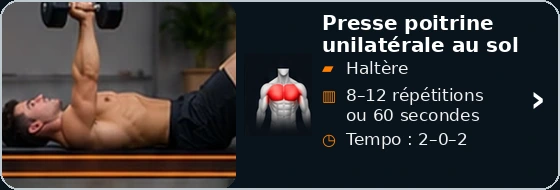
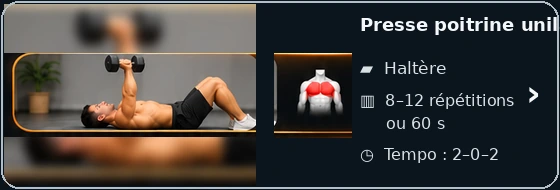
Add files via upload

diff --git a/sw.js b/sw.js
@@ -1,5 +1,5 @@
-const CACHE="ma-bibliotheque-v69";
-const ASSETS=["./","./index.html","./styles.css","./app.js","./data.json","./manifest.json","./icon-192.png","./icon-512.png","./cat-cakes-desserts.webp","./cat-cakes-sales-terrines.webp","./cat-pancakes-gaufres.webp","./cat-pains-pizzas-bruschettas.webp","./cat-quiches-tartes.webp","./cat-pates-a-tartiner.webp","./cat-plats-sales.webp","./cat-recettes-mer.webp","./cat-pates.webp","./cat-salades.webp","./cat-soupes.webp","./cat-mijoteuse.webp","./univers-musculation.webp","./muscu-menu-exercices.png","./muscu-menu-seances.png","./muscu-menu-autre-sport.png","./muscu-menu-historique.png","./exercice-groupe-pectoraux.webp","./exercice-groupe-dos.webp","./exercice-groupe-epaules.webp","./exercice-groupe-biceps.webp","./exercice-groupe-triceps.webp","./exercice-groupe-jambes.webp","./exercice-groupe-abdominaux.webp","./pectoraux-page-v1.webp","./biceps-curl-marteau.webp","./biceps-curl-classique.webp","./biceps-curl-alterne.webp","./biceps-curl-concentration.webp","./biceps-curl-zottman.webp","./biceps-curl-prise-inversee.webp","./biceps-curl-assis.webp","./biceps-curl-unilateral.webp","./biceps-curl-isometrique.webp","./biceps-curl-kettlebell.webp","./seance-haut-corps-v2.png","./seance-bas-corps-v2.png","./seance-corps-complet-v2.png","./seance-abdos-gainage-v2.png","./sport-marche-v3.png","./sport-course-v3.png","./sport-velo-v3.png","./sport-velo-appartement-v3.png","./sport-paddle-v3.png","./recette-r014-gaufres-ig-bas-proteinees.png","./recette-r017-pancakes-proteines-ig-bas.png","./recette-r001-appareil-a-quiche-proteine-ig-bas.png","./recette-r013-gaufres-au-thon.png","./recette-r021-quiche-proteinee-legumes-sans-pate.png","./recette-r022-quiche-proteinee-legumes-thon-sans-pate.png","./recette-r023-quiche-proteinee-poulet-epinards-skyr-sans-pate.png","./recette-r029-pate-brisee-farine-pois-chiches.png","./recette-r031-pancakes-courgettes-parmesan.png","./recette-r019-choco-noisette-saine.png","./recette-r020-choco-noisette-ig-bas.png","./recette-r035-pate-amandes.png","./recette-r036-pate-cacahuetes.png","./recette-r058-veloute-pois-chiches-courgette-poireau-cumin.webp","./recette-r101-salade-poulet-avocat-oeufs.webp","./recette-r102-salade-pommes-terre-thon-oeufs.webp","./recette-r103-salade-cabillaud-avocat-oeufs.webp","./recette-r104-salade-poulet-croustillant.webp","./recette-r105-salade-mediterraneenne-pois-chiches.webp","./recette-r106-salade-pates-poulet-mozzarella.webp","./recette-r107-salade-crevettes-avocat-mangue.webp","./recette-r108-salade-quinoa-legumes-rotis-pois-chiches.webp","./recette-r109-salade-boeuf-grille-avocat.webp","./recette-r110-salade-riz-basmati-thon-oeufs.webp","./recette-r089-lasagnes-volaille-legumes.webp","./recette-r090-lasagnes-blanches-volaille-legumes.webp","./recette-r126-pates-poulet-courgettes-tomates.webp","./recette-r127-pates-pesto-tomates-parmesan.webp","./recette-r128-pates-cremeuses-poulet-champignons-epinards.webp","./recette-r129-pates-poulet-epinards-tomates.webp","./recette-r130-pates-thon-courgette-poivron-olives.webp","./recette-r131-pates-brocoli-burrata-tomates.webp","./recette-r132-pates-lentilles-corail-basilic.webp","./recette-r133-pates-lentilles-corail-tomates-confites-basilic.webp","./recette-r071-bowl-calamars-romaine.webp","./recette-r072-tacos-calamars-romaine.webp","./recette-r073-calamars-orge-legumes-rotis.webp","./recette-r074-risotto-mer-citron-safran-calamars.webp","./recette-r078-crevettes-courgettes-quinoa.webp","./recette-r079-crevettes-pois-chiches-legumes.webp","./recette-r002-cake-chocolat-poire-pepites.png","./recette-r005-cake-marbre-proteine-avoine-amande-lupin.png","./recette-r007-cake-proteine-myrtilles-chocolat.png","./recette-r011-flan-proteine-myrtille-citron.png","./recette-r030-gateau-fromage-blanc.png","./recette-r037-clafoutis-leger-pommes.png","./recette-r075-cake-proteine-ananas-coco-vanille.png","./recette-r076-tiramisu-proteine-cafe-chia.png","./recette-r077-tiramisu-proteine-poire-chocolat-chia.png","./recette-r091-cake-proteine-banane-chocolat.png","./recette-r092-cake-proteine-pomme-cannelle.png","./recette-r093-cake-proteine-banane-coco.png","./recette-r094-cake-proteine-chocolat-compote.png","./recette-r095-cake-proteine-poire-amande.png","./recette-r096-cake-proteine-carotte-cannelle-noix.png","./recette-r097-cake-proteine-banane-fruits-rouges.png","./recette-r098-cake-proteine-pomme-coco.png","./recette-r099-cake-proteine-citron-amande.png","./recette-r100-cake-proteine-banane-cacao-noisette.png","./recette-r003-cake-courgette-poivron-feta.png","./recette-r004-cake-jambon-epinards-chevre.png","./recette-r006-cake-poulet-courgette-parmesan.png","./recette-r008-cake-legumes-du-soleil.png","./recette-r009-cake-thon-courgette-skyr-sans-farine.png","./recette-r010-cake-thon-tomate-olives.png","./recette-r024-terrine-legumes-ete.png","./recette-r025-terrine-fraiche-thon-courgette.png","./recette-r038-cake-epinards-feta.png","./recette-r039-cake-poulet-curry.png","./recette-r040-cake-poivron-mozzarella.png","./recette-r041-cake-champignons-comte.png","./recette-r042-cake-carotte-chevre.png","./recette-r043-cake-thon-olives.png","./recette-r080-flan-courgettes-parmesan-skyr.png","./recette-r081-terrine-poulet-legumes.png","./recette-r082-clafoutis-tomates-courgettes-fromage.png","./recette-r083-terrine-champignons-poireaux-emmental.png","./recette-r084-gateau-pommes-terre-courgettes-chevre.png","./recette-r085-gateau-pommes-terre-chou-fleur-chevre.png","./recette-r026-wok-poulet-pousses-soja.png","./recette-r059-poulet-pommes-terre-brocoli.png","./recette-r060-saumon-riz-legumes.png","./recette-r061-poulet-cremeux-champignons-pates.png","./recette-r062-boeuf-pommes-terre-carottes-mijotes.png","./recette-r063-saucisses-pommes-terre-poivrons.png","./recette-r064-poulet-riz-legumes.png","./recette-r065-crevettes-riz-brocoli.png","./recette-r066-poulet-tex-mex-haricots-mais.png","./recette-r067-gnocchis-poulet-tomates.png","./recette-r068-boulettes-boeuf-orzo-tomates.png","./recette-r069-poulet-citron-orzo-epinards.png","./recette-r070-boeuf-cremeux-champignons-pates.png","./recette-r112-boeuf-bourguignon-mijoteuse-v2.png","./recette-r113-poulet-cremeux-ail-v2.png","./recette-r114-porc-effiloche-sauce-barbecue-v2.png","./recette-r115-ragout-boeuf-legumes-pommes-terre-v2.png","./recette-r116-boulettes-boeuf-sauce-tomate-v2.png","./recette-r117-poulet-champignons-creme-v2.png","./recette-r118-boeuf-oignons-sauce-brune-v2.png","./recette-r119-poulet-citron-herbes-v2.png","./recette-r120-porc-champignons-oignons-v2.png","./recette-r121-chili-boeuf-haricots-blancs-v2.png","./recette-r122-poulet-cremeux-pommes-terre-v3.png","./recette-r123-boeuf-mijote-thym-v2.png","./recette-r124-poulet-barbecue-miel-v3.png","./recette-r125-roti-porc-pommes-terre-v3.png","./recette-r012-fougasse-petit-epeautre-v2.png","./recette-r015-pain-complet-ig-bas-v2.png","./recette-r016-pain-pomme-terre-skyr-v2.png","./recette-r018-pate-pizza-ig-bas-v2.png","./recette-r027-pain-sarrasin-pois-chiches-graines-v2.png","./recette-r028-pain-sarrasin-v2.png","./recette-r032-pizza-express-proteinee-v2.png","./recette-r033-petits-pains-pois-chiches-v2.png","./recette-r034-pain-lentilles-corail-v2.png","./recette-r044-bruschetta-tomate-basilic-v2.png","./recette-r045-bruschetta-mozzarella-tomates-cerises.png","./recette-r046-bruschetta-jambon-cru-roquette.png","./recette-r047-bruschetta-ricotta-miel.png","./recette-r048-bruschetta-champignons-ail.png","./recette-r049-bruschetta-poivron-roti.png","./recette-r050-bruschetta-saumon-fromage-frais.png","./recette-r051-bruschetta-avocat-citron-vert.png","./recette-r052-bruschetta-thon-olives.png","./recette-r053-bruschetta-chevre-figues.png","./recette-r054-bruschetta-pesto-tomates-sechees.png","./recette-r055-bruschetta-burrata-pesto.png","./recette-r056-bruschetta-poulet-tomates-sechees.png","./recette-r057-bruschetta-crevettes-avocat.png","./recette-r086-pain-lentilles-corail.png","./recette-r087-pain-lentilles-avoine-lupin.png","./recette-r088-pain-nordique-graines.png","./recette-r111-pain-100-sarrasin.png"];
+const CACHE="ma-bibliotheque-v70";
+const ASSETS=["./","./index.html","./styles.css","./app.js","./data.json","./manifest.json","./icon-192.png","./icon-512.png","./cat-cakes-desserts.webp","./cat-cakes-sales-terrines.webp","./cat-pancakes-gaufres.webp","./cat-pains-pizzas-bruschettas.webp","./cat-quiches-tartes.webp","./cat-pates-a-tartiner.webp","./cat-plats-sales.webp","./cat-recettes-mer.webp","./cat-pates.webp","./cat-salades.webp","./cat-soupes.webp","./cat-mijoteuse.webp","./univers-musculation.webp","./muscu-menu-exercices.png","./muscu-menu-seances.png","./muscu-menu-autre-sport.png","./muscu-menu-historique.png","./exercice-groupe-pectoraux.webp","./exercice-groupe-dos.webp","./exercice-groupe-epaules.webp","./exercice-groupe-biceps.webp","./exercice-groupe-triceps.webp","./exercice-groupe-jambes.webp","./exercice-groupe-abdominaux.webp","./pectoraux-pompes-classiques.webp","./pectoraux-pompes-inclinees.webp","./pectoraux-pompes-declinees.webp","./pectoraux-developpe-sol-halteres.webp","./pectoraux-ecarte-sol-halteres.webp","./pectoraux-pullover-haltere.webp","./pectoraux-presse-unilaterale-sol.webp","./pectoraux-pompes-prise-large.webp","./pectoraux-pompes-tempo-lent.webp","./pectoraux-squeeze-press-halteres.webp","./biceps-curl-marteau.webp","./biceps-curl-classique.webp","./biceps-curl-alterne.webp","./biceps-curl-concentration.webp","./biceps-curl-zottman.webp","./biceps-curl-prise-inversee.webp","./biceps-curl-assis.webp","./biceps-curl-unilateral.webp","./biceps-curl-isometrique.webp","./biceps-curl-kettlebell.webp","./seance-haut-corps-v2.png","./seance-bas-corps-v2.png","./seance-corps-complet-v2.png","./seance-abdos-gainage-v2.png","./sport-marche-v3.png","./sport-course-v3.png","./sport-velo-v3.png","./sport-velo-appartement-v3.png","./sport-paddle-v3.png","./recette-r014-gaufres-ig-bas-proteinees.png","./recette-r017-pancakes-proteines-ig-bas.png","./recette-r001-appareil-a-quiche-proteine-ig-bas.png","./recette-r013-gaufres-au-thon.png","./recette-r021-quiche-proteinee-legumes-sans-pate.png","./recette-r022-quiche-proteinee-legumes-thon-sans-pate.png","./recette-r023-quiche-proteinee-poulet-epinards-skyr-sans-pate.png","./recette-r029-pate-brisee-farine-pois-chiches.png","./recette-r031-pancakes-courgettes-parmesan.png","./recette-r019-choco-noisette-saine.png","./recette-r020-choco-noisette-ig-bas.png","./recette-r035-pate-amandes.png","./recette-r036-pate-cacahuetes.png","./recette-r058-veloute-pois-chiches-courgette-poireau-cumin.webp","./recette-r101-salade-poulet-avocat-oeufs.webp","./recette-r102-salade-pommes-terre-thon-oeufs.webp","./recette-r103-salade-cabillaud-avocat-oeufs.webp","./recette-r104-salade-poulet-croustillant.webp","./recette-r105-salade-mediterraneenne-pois-chiches.webp","./recette-r106-salade-pates-poulet-mozzarella.webp","./recette-r107-salade-crevettes-avocat-mangue.webp","./recette-r108-salade-quinoa-legumes-rotis-pois-chiches.webp","./recette-r109-salade-boeuf-grille-avocat.webp","./recette-r110-salade-riz-basmati-thon-oeufs.webp","./recette-r089-lasagnes-volaille-legumes.webp","./recette-r090-lasagnes-blanches-volaille-legumes.webp","./recette-r126-pates-poulet-courgettes-tomates.webp","./recette-r127-pates-pesto-tomates-parmesan.webp","./recette-r128-pates-cremeuses-poulet-champignons-epinards.webp","./recette-r129-pates-poulet-epinards-tomates.webp","./recette-r130-pates-thon-courgette-poivron-olives.webp","./recette-r131-pates-brocoli-burrata-tomates.webp","./recette-r132-pates-lentilles-corail-basilic.webp","./recette-r133-pates-lentilles-corail-tomates-confites-basilic.webp","./recette-r071-bowl-calamars-romaine.webp","./recette-r072-tacos-calamars-romaine.webp","./recette-r073-calamars-orge-legumes-rotis.webp","./recette-r074-risotto-mer-citron-safran-calamars.webp","./recette-r078-crevettes-courgettes-quinoa.webp","./recette-r079-crevettes-pois-chiches-legumes.webp","./recette-r002-cake-chocolat-poire-pepites.png","./recette-r005-cake-marbre-proteine-avoine-amande-lupin.png","./recette-r007-cake-proteine-myrtilles-chocolat.png","./recette-r011-flan-proteine-myrtille-citron.png","./recette-r030-gateau-fromage-blanc.png","./recette-r037-clafoutis-leger-pommes.png","./recette-r075-cake-proteine-ananas-coco-vanille.png","./recette-r076-tiramisu-proteine-cafe-chia.png","./recette-r077-tiramisu-proteine-poire-chocolat-chia.png","./recette-r091-cake-proteine-banane-chocolat.png","./recette-r092-cake-proteine-pomme-cannelle.png","./recette-r093-cake-proteine-banane-coco.png","./recette-r094-cake-proteine-chocolat-compote.png","./recette-r095-cake-proteine-poire-amande.png","./recette-r096-cake-proteine-carotte-cannelle-noix.png","./recette-r097-cake-proteine-banane-fruits-rouges.png","./recette-r098-cake-proteine-pomme-coco.png","./recette-r099-cake-proteine-citron-amande.png","./recette-r100-cake-proteine-banane-cacao-noisette.png","./recette-r003-cake-courgette-poivron-feta.png","./recette-r004-cake-jambon-epinards-chevre.png","./recette-r006-cake-poulet-courgette-parmesan.png","./recette-r008-cake-legumes-du-soleil.png","./recette-r009-cake-thon-courgette-skyr-sans-farine.png","./recette-r010-cake-thon-tomate-olives.png","./recette-r024-terrine-legumes-ete.png","./recette-r025-terrine-fraiche-thon-courgette.png","./recette-r038-cake-epinards-feta.png","./recette-r039-cake-poulet-curry.png","./recette-r040-cake-poivron-mozzarella.png","./recette-r041-cake-champignons-comte.png","./recette-r042-cake-carotte-chevre.png","./recette-r043-cake-thon-olives.png","./recette-r080-flan-courgettes-parmesan-skyr.png","./recette-r081-terrine-poulet-legumes.png","./recette-r082-clafoutis-tomates-courgettes-fromage.png","./recette-r083-terrine-champignons-poireaux-emmental.png","./recette-r084-gateau-pommes-terre-courgettes-chevre.png","./recette-r085-gateau-pommes-terre-chou-fleur-chevre.png","./recette-r026-wok-poulet-pousses-soja.png","./recette-r059-poulet-pommes-terre-brocoli.png","./recette-r060-saumon-riz-legumes.png","./recette-r061-poulet-cremeux-champignons-pates.png","./recette-r062-boeuf-pommes-terre-carottes-mijotes.png","./recette-r063-saucisses-pommes-terre-poivrons.png","./recette-r064-poulet-riz-legumes.png","./recette-r065-crevettes-riz-brocoli.png","./recette-r066-poulet-tex-mex-haricots-mais.png","./recette-r067-gnocchis-poulet-tomates.png","./recette-r068-boulettes-boeuf-orzo-tomates.png","./recette-r069-poulet-citron-orzo-epinards.png","./recette-r070-boeuf-cremeux-champignons-pates.png","./recette-r112-boeuf-bourguignon-mijoteuse-v2.png","./recette-r113-poulet-cremeux-ail-v2.png","./recette-r114-porc-effiloche-sauce-barbecue-v2.png","./recette-r115-ragout-boeuf-legumes-pommes-terre-v2.png","./recette-r116-boulettes-boeuf-sauce-tomate-v2.png","./recette-r117-poulet-champignons-creme-v2.png","./recette-r118-boeuf-oignons-sauce-brune-v2.png","./recette-r119-poulet-citron-herbes-v2.png","./recette-r120-porc-champignons-oignons-v2.png","./recette-r121-chili-boeuf-haricots-blancs-v2.png","./recette-r122-poulet-cremeux-pommes-terre-v3.png","./recette-r123-boeuf-mijote-thym-v2.png","./recette-r124-poulet-barbecue-miel-v3.png","./recette-r125-roti-porc-pommes-terre-v3.png","./recette-r012-fougasse-petit-epeautre-v2.png","./recette-r015-pain-complet-ig-bas-v2.png","./recette-r016-pain-pomme-terre-skyr-v2.png","./recette-r018-pate-pizza-ig-bas-v2.png","./recette-r027-pain-sarrasin-pois-chiches-graines-v2.png","./recette-r028-pain-sarrasin-v2.png","./recette-r032-pizza-express-proteinee-v2.png","./recette-r033-petits-pains-pois-chiches-v2.png","./recette-r034-pain-lentilles-corail-v2.png","./recette-r044-bruschetta-tomate-basilic-v2.png","./recette-r045-bruschetta-mozzarella-tomates-cerises.png","./recette-r046-bruschetta-jambon-cru-roquette.png","./recette-r047-bruschetta-ricotta-miel.png","./recette-r048-bruschetta-champignons-ail.png","./recette-r049-bruschetta-poivron-roti.png","./recette-r050-bruschetta-saumon-fromage-frais.png","./recette-r051-bruschetta-avocat-citron-vert.png","./recette-r052-bruschetta-thon-olives.png","./recette-r053-bruschetta-chevre-figues.png","./recette-r054-bruschetta-pesto-tomates-sechees.png","./recette-r055-bruschetta-burrata-pesto.png","./recette-r056-bruschetta-poulet-tomates-sechees.png","./recette-r057-bruschetta-crevettes-avocat.png","./recette-r086-pain-lentilles-corail.png","./recette-r087-pain-lentilles-avoine-lupin.png","./recette-r088-pain-nordique-graines.png","./recette-r111-pain-100-sarrasin.png"];
 
 self.addEventListener("install", event => {
   self.skipWaiting();

diff --git a/app.js b/app.js
@@ -337,34 +337,41 @@ function renderMuscuExercises(){
 }
 
 function renderMuscuPectoraux(){
-  const labels=[
-    "Pompes classiques",
-    "Pompes inclinées",
-    "Pompes déclinées",
-    "Développé couché au sol haltères",
-    "Écarté couché au sol haltères",
-    "Pullover haltère",
-    "Presse poitrine unilatérale au sol",
-    "Pompes prise large",
-    "Pompes tempo lent",
-    "Squeeze press haltères"
+  const exercises=[
+    ["pompes-classiques","Pompes classiques"],
+    ["pompes-inclinees","Pompes inclinées"],
+    ["pompes-declinees","Pompes déclinées"],
+    ["developpe-sol-halteres","Développé couché au sol haltères"],
+    ["ecarte-sol-halteres","Écarté couché au sol haltères"],
+    ["pullover-haltere","Pullover haltère"],
+    ["presse-unilaterale-sol","Presse poitrine unilatérale au sol"],
+    ["pompes-prise-large","Pompes prise large"],
+    ["pompes-tempo-lent","Pompes tempo lent"],
+    ["squeeze-press-halteres","Squeeze press haltères"]
   ];
-  const tops=[17.4,25.7,34.0,42.3,50.6,58.9,67.2,75.5,83.8,92.0];
   main.innerHTML=`
-    <section class="muscu-pectoraux-overlay-page" aria-label="Exercices pectoraux">
-      <div class="muscu-pectoraux-stage">
-        <img src="./pectoraux-page-v1.webp" class="muscu-pectoraux-fullimg" alt="Pectoraux — 10 exercices à la maison">
-        <button id="muscuPectorauxBack" class="muscu-pectoraux-hotspot muscu-pectoraux-backhot" aria-label="Retour aux groupes musculaires"></button>
-        ${labels.map((label,i)=>`<button class="muscu-pectoraux-hotspot muscu-pectoraux-exhot" data-pectoraux-exercise="${i}" style="top:${tops[i]}%" aria-label="Ouvrir ${label}"></button>`).join("")}
+    <section class="muscu-biceps-v1" aria-label="Exercices pectoraux">
+      <button class="muscu-back-pill muscu-biceps-back" id="muscuPectorauxBack" aria-label="Retour aux groupes musculaires">
+        <span class="muscu-back-arrow">←</span><span>Retour</span>
+      </button>
+      <div class="muscu-biceps-heading">
+        <div class="muscu-biceps-icon" aria-hidden="true">⌁</div>
+        <div>
+          <div class="muscu-biceps-kicker">EXERCICES</div>
+          <h2>Pectoraux</h2>
+          <p>10 exercices pour développer et renforcer les pectoraux à la maison</p>
+        </div>
+      </div>
+      <div class="muscu-biceps-list">
+        ${exercises.map(([key,label])=>`<button class="muscu-biceps-card" data-pectoraux-exercise="${key}" aria-label="Ouvrir ${label}"><img src="./pectoraux-${key}.webp" alt="${label}"></button>`).join("")}
       </div>
     </section>`;
   document.getElementById("muscuPectorauxBack")?.addEventListener("click",()=>{state.view="muscu-exercises";render();});
   document.querySelectorAll("[data-pectoraux-exercise]").forEach(btn=>btn.addEventListener("click",()=>{
-    const label=labels[Number(btn.dataset.pectorauxExercise)] || "cet exercice";
+    const label=btn.getAttribute("aria-label")?.replace("Ouvrir ","") || "cet exercice";
     alert(`La fiche détaillée ${label} sera ajoutée à l’étape suivante.`);
   }));
 }
-
 function renderMuscuBiceps(){
   const exercises=[
     ["curl-marteau","Curl marteau"],
